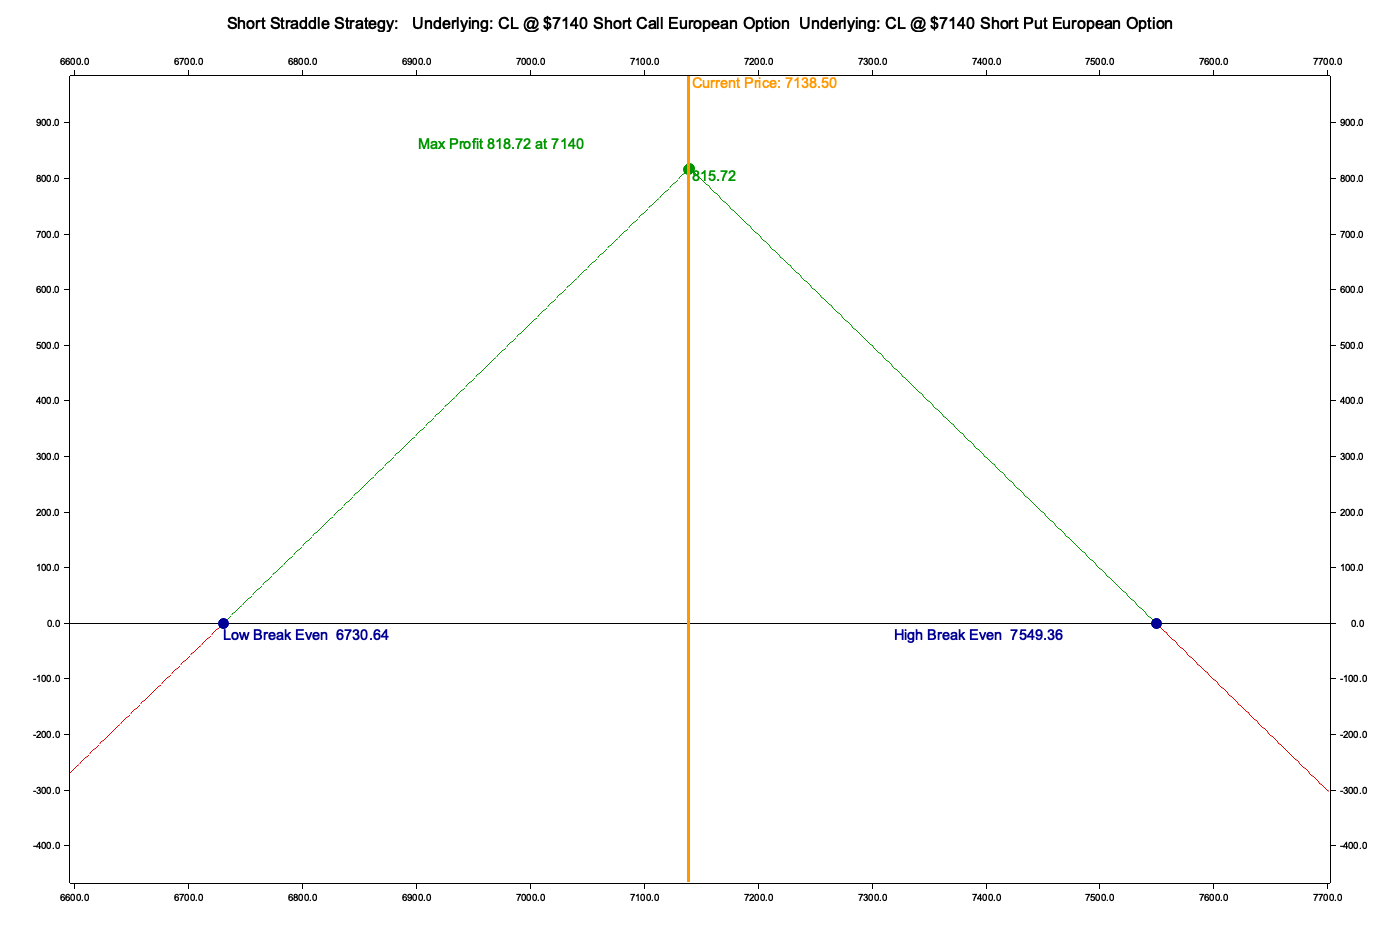
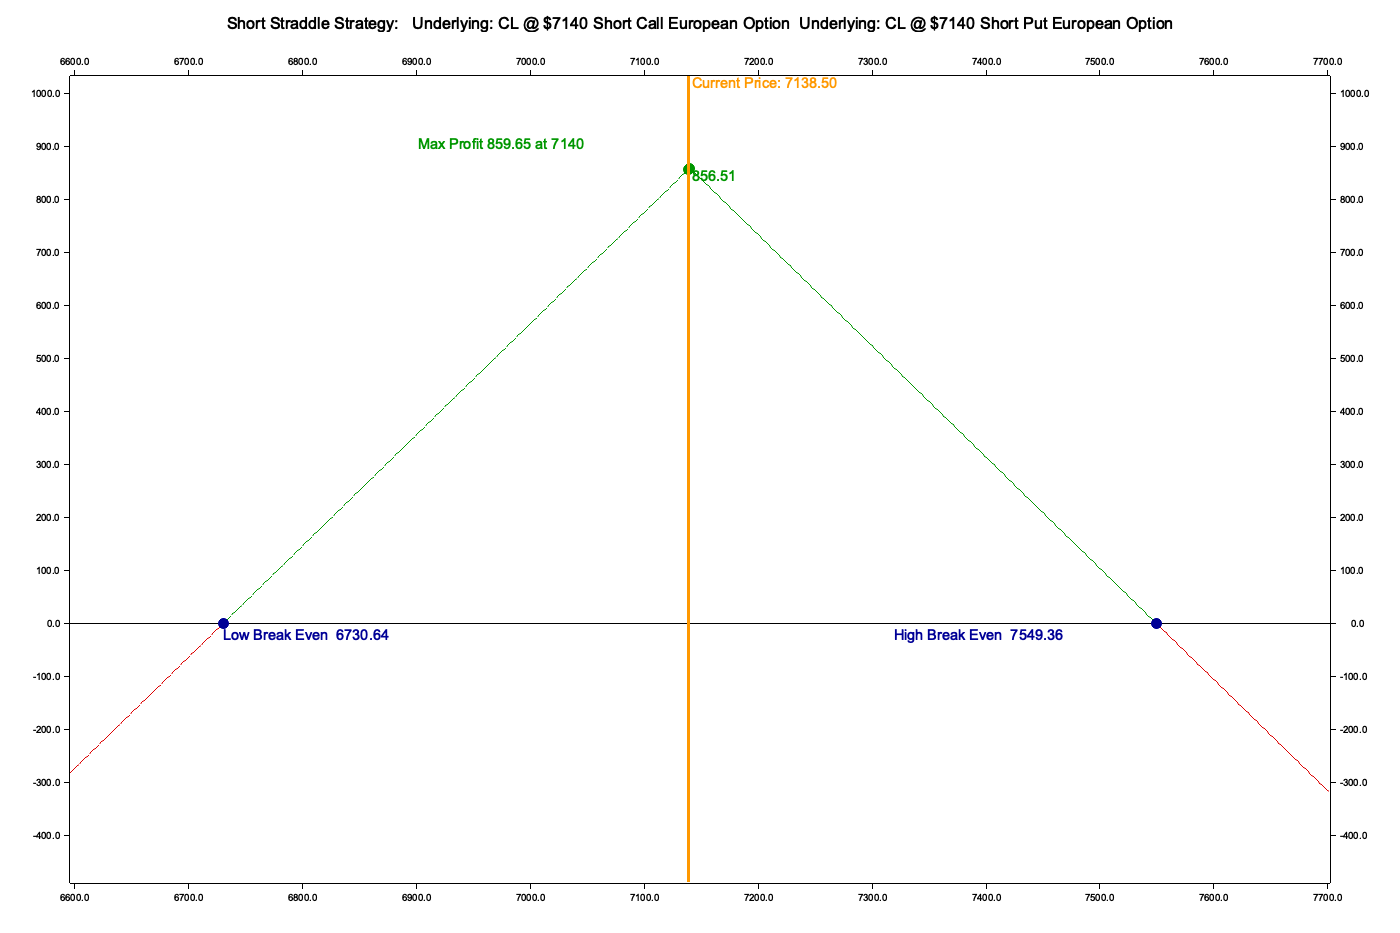
Refactor strategy break-even point calculations
Replaced duplicate break-even point calculations with a reusable `update_break_even_points` method for improved maintainability. Updated quantity values in strategy examples to reflect corrected inputs. Updated corresponding profit/loss chart images to align with the revised calculations.

diff --git a/src/strategies/straddle.rs b/src/strategies/straddle.rs
@@ -153,17 +153,7 @@ impl ShortStraddle {
         strategy
             .add_position(&short_put.clone())
             .expect("Invalid short put");
-        // 
-        // let net_quantity = (short_call.option.quantity + short_put.option.quantity) / 2.0;
-        // strategy
-        //     .break_even_points
-        //     .push((strike - strategy.net_premium_received().unwrap() / net_quantity).round_to(2));
-        // strategy
-        //     .break_even_points
-        //     .push((strike + strategy.net_premium_received().unwrap() / net_quantity).round_to(2));
-        // 
-        // strategy.break_even_points.sort();
-
+        
         strategy
             .update_break_even_points()
             .expect("Unable to update break even points");
@@ -187,8 +177,7 @@ impl BreakEvenable for ShortStraddle {
         );
 
         self.break_even_points.push(
-            (self.short_call.option.strike_price
-                + (total_premium / self.short_call.option.quantity))
+            (self.short_call.option.strike_price + (total_premium / self.short_call.option.quantity))
                 .round_to(2),
         );
 
@@ -795,17 +784,9 @@ impl LongStraddle {
             .add_position(&long_put.clone())
             .expect("Invalid long put");
 
-        let net_quantity = (long_call.option.quantity + long_put.option.quantity) / pos!(2.0);
-
         strategy
-            .break_even_points
-            .push((strike - strategy.total_cost().unwrap() / net_quantity).round_to(2));
-
-        strategy
-            .break_even_points
-            .push((strike + strategy.total_cost().unwrap() / net_quantity).round_to(2));
-
-        strategy.break_even_points.sort();
+            .update_break_even_points()
+            .expect("Unable to update break even points");
         strategy
     }
 }
@@ -813,6 +794,25 @@ impl LongStraddle {
 impl BreakEvenable for LongStraddle {
     fn get_break_even_points(&self) -> Result<&Vec<Positive>, StrategyError> {
         Ok(&self.break_even_points)
+    }
+
+    fn update_break_even_points(&mut self) -> Result<(), StrategyError> {
+        self.break_even_points = Vec::new();
+
+        let total_cost = self.total_cost()?;
+
+        self.break_even_points.push(
+            (self.long_put.option.strike_price - (total_cost / self.long_put.option.quantity))
+                .round_to(2),
+        );
+
+        self.break_even_points.push(
+            (self.long_call.option.strike_price + (total_cost / self.long_call.option.quantity))
+                .round_to(2),
+        );
+
+        self.break_even_points.sort();
+        Ok(())
     }
 }
 

diff --git a/examples/examples_strategies/src/bin/strategy_long_strangle.rs b/examples/examples_strategies/src/bin/strategy_long_strangle.rs
@@ -24,7 +24,7 @@ fn main() -> Result<(), Box<dyn Error>> {
         pos!(0.3745),   // implied_volatility
         dec!(0.05),     // risk_free_rate
         Positive::ZERO, // dividend_yield
-        pos!(1.1),      // quantity
+        pos!(1.2),      // quantity
         pos!(84.2),     // premium_short_call
         pos!(353.2),    // premium_short_put
         pos!(7.01),     // open_fee_short_call

diff --git a/examples/examples_strategies/src/bin/strategy_short_straddle.rs b/examples/examples_strategies/src/bin/strategy_short_straddle.rs
@@ -23,7 +23,7 @@ fn main() -> Result<(), Box<dyn Error>> {
         pos!(0.3745),   // implied_volatility
         dec!(0.05),     // risk_free_rate
         Positive::ZERO, // dividend_yield
-        pos!(2.0),      // quantity
+        pos!(2.1),      // quantity
         pos!(84.2),     // premium_short_call
         pos!(353.2),    // premium_short_put
         pos!(7.01),     // open_fee_short_call
